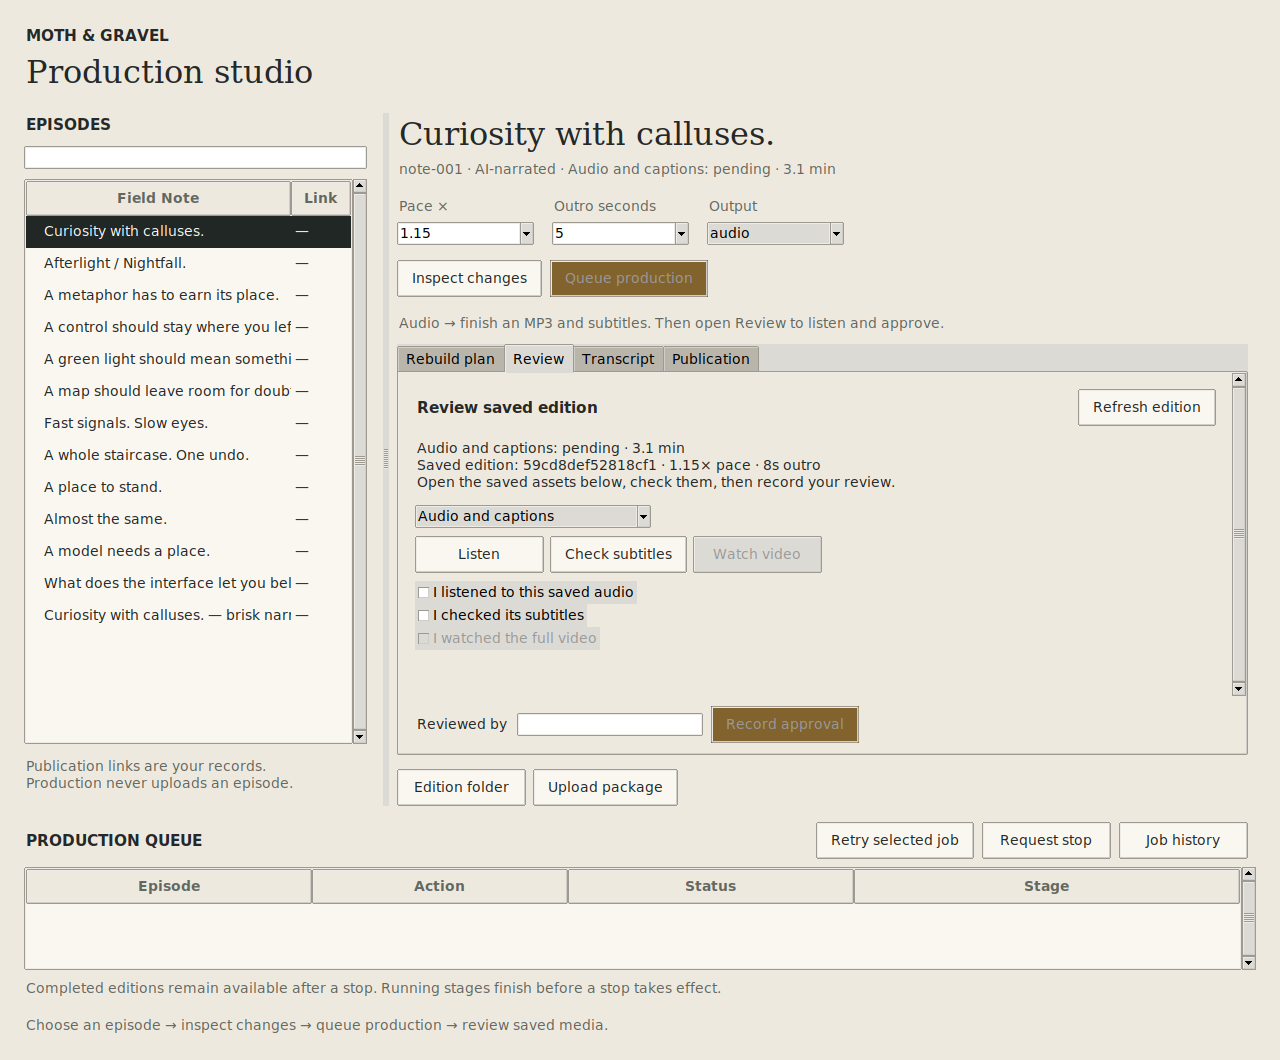
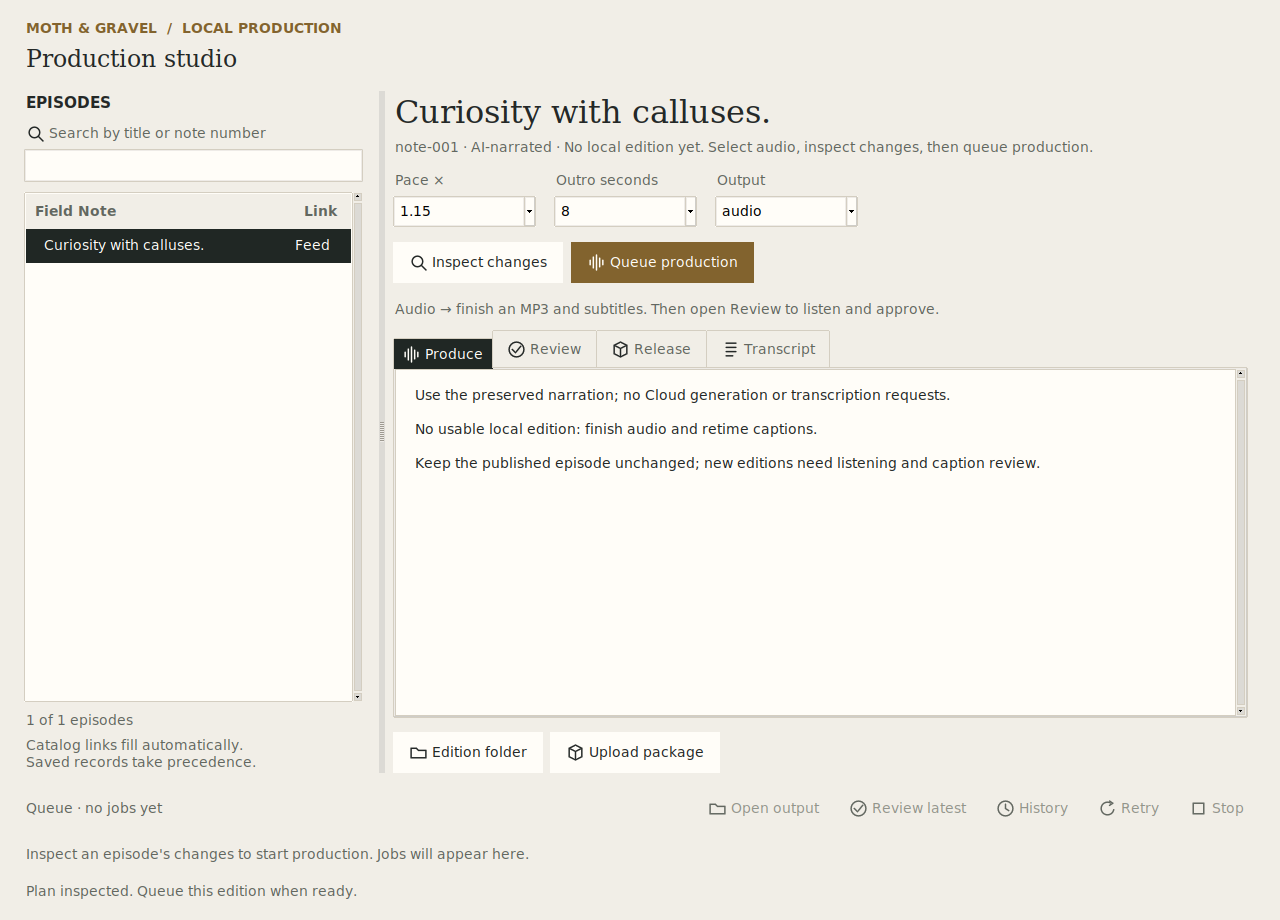
Keep shelf guidance visible and refresh the desktop design reference

diff --git a/field_notes_studio/presentation/shelf.py b/field_notes_studio/presentation/shelf.py
@@ -9,24 +9,28 @@ from field_notes_studio.presentation.icons import icon
 class Shelf(ttk.Frame):
     def __init__(self, parent, select):
         super().__init__(parent, padding=(0, 0, 16, 0))
+        self.columnconfigure(0, weight=1)
+        self.rowconfigure(3, weight=1)
         self.episodes = []
         self.current = None
         self.select = select
-        ttk.Label(self, text="EPISODES", style="Heading.TLabel").pack(anchor="w", pady=(0, 8))
+        ttk.Label(self, text="EPISODES", style="Heading.TLabel").grid(
+            row=0, column=0, sticky="w", pady=(0, 8)
+        )
         ttk.Label(
             self,
             text="Search by title or note number",
             image=icon(self, "search"),
             compound="left",
             style="Muted.TLabel",
-        ).pack(anchor="w", pady=(0, 4))
+        ).grid(row=1, column=0, sticky="w", pady=(0, 4))
         self.query = tk.StringVar()
         entry = ttk.Entry(self, textvariable=self.query)
-        entry.pack(fill="x", pady=(0, 10))
+        entry.grid(row=2, column=0, sticky="ew", pady=(0, 10))
         entry.bind("<Escape>", lambda _: self.query.set(""))
         self.query.trace_add("write", lambda *_: self.render())
         region = ttk.Frame(self)
-        region.pack(fill="both", expand=True)
+        region.grid(row=3, column=0, sticky="nsew")
         self.tree = ttk.Treeview(
             region, columns=("publication",), show="tree headings", selectmode="browse"
         )
@@ -41,12 +45,13 @@ class Shelf(ttk.Frame):
         scrollbar.pack(side="right", fill="y")
         self.tree.bind("<<TreeviewSelect>>", self._selected)
         self.count = ttk.Label(self, text="Loading episodes…", style="Muted.TLabel")
-        self.count.pack(anchor="w", pady=(8, 0))
-        ttk.Label(
+        self.count.grid(row=4, column=0, sticky="w", pady=(8, 0))
+        self.help = ttk.Label(
             self,
             text="Catalog links fill automatically.\nSaved records take precedence.",
             style="Muted.TLabel",
-        ).pack(anchor="w", pady=(4, 0))
+        )
+        self.help.grid(row=5, column=0, sticky="w", pady=(4, 0))
 
     def load(self, episodes):
         self.episodes = episodes

diff --git a/tests/studio/test_ui.py b/tests/studio/test_ui.py
@@ -322,6 +322,8 @@ class UITests(unittest.TestCase):
         x, y, _, _ = bounds
         visible = self.root.winfo_containing(tree.winfo_rootx() + x + 5, tree.winfo_rooty() + y + 5)
         self.assertIs(visible, tree)
+        self.assert_visible(self.app.shelf.count)
+        self.assert_visible(self.app.shelf.help)
         bottom = self.app.message.winfo_rooty() + self.app.message.winfo_height()
         self.assertLessEqual(bottom, self.root.winfo_rooty() + self.root.winfo_height())
 
@@ -486,6 +488,7 @@ class UITests(unittest.TestCase):
         self.queue_job(episode="note-002")
         self.root.update()
         self.assertEqual(self.app.jobs.tree.item(interrupted, "values")[2], "Interrupted")
+        self.assertNotIn("Jobs will appear here", self.app.jobs.detail["text"])
         publication.copy_button.invoke()
         self.root.update()
         self.capture("release-copy-feedback")

diff --git a/field_notes_studio/presentation/queue.py b/field_notes_studio/presentation/queue.py
@@ -115,6 +115,10 @@ class ProductionQueue(ttk.Frame):
 
     def render(self, jobs):
         if jobs:
+            if not self.jobs:
+                self.detail.configure(
+                    text="Select a job to inspect its recipe, status and saved output."
+                )
             if not self.region.winfo_manager():
                 self.region.pack(fill="x", before=self.detail)
         else:

diff --git a/studio/README.md b/studio/README.md
@@ -1,6 +1,9 @@
 # Moth & Gravel production studio
 
-![A real episode in the Tkinter production workspace](workspace.png)
+![The native Tk studio with labelled pictograms and an inspected production plan](workspace.png)
+
+Real desktop screenshot from the automated UI fixture; media and publication states
+in these checks are controlled examples.
 
 A Tkinter/ttk workspace for the existing local production engine. Choose a prepared
 episode, inspect the consequences of pace/outro changes, queue an edition, listen
